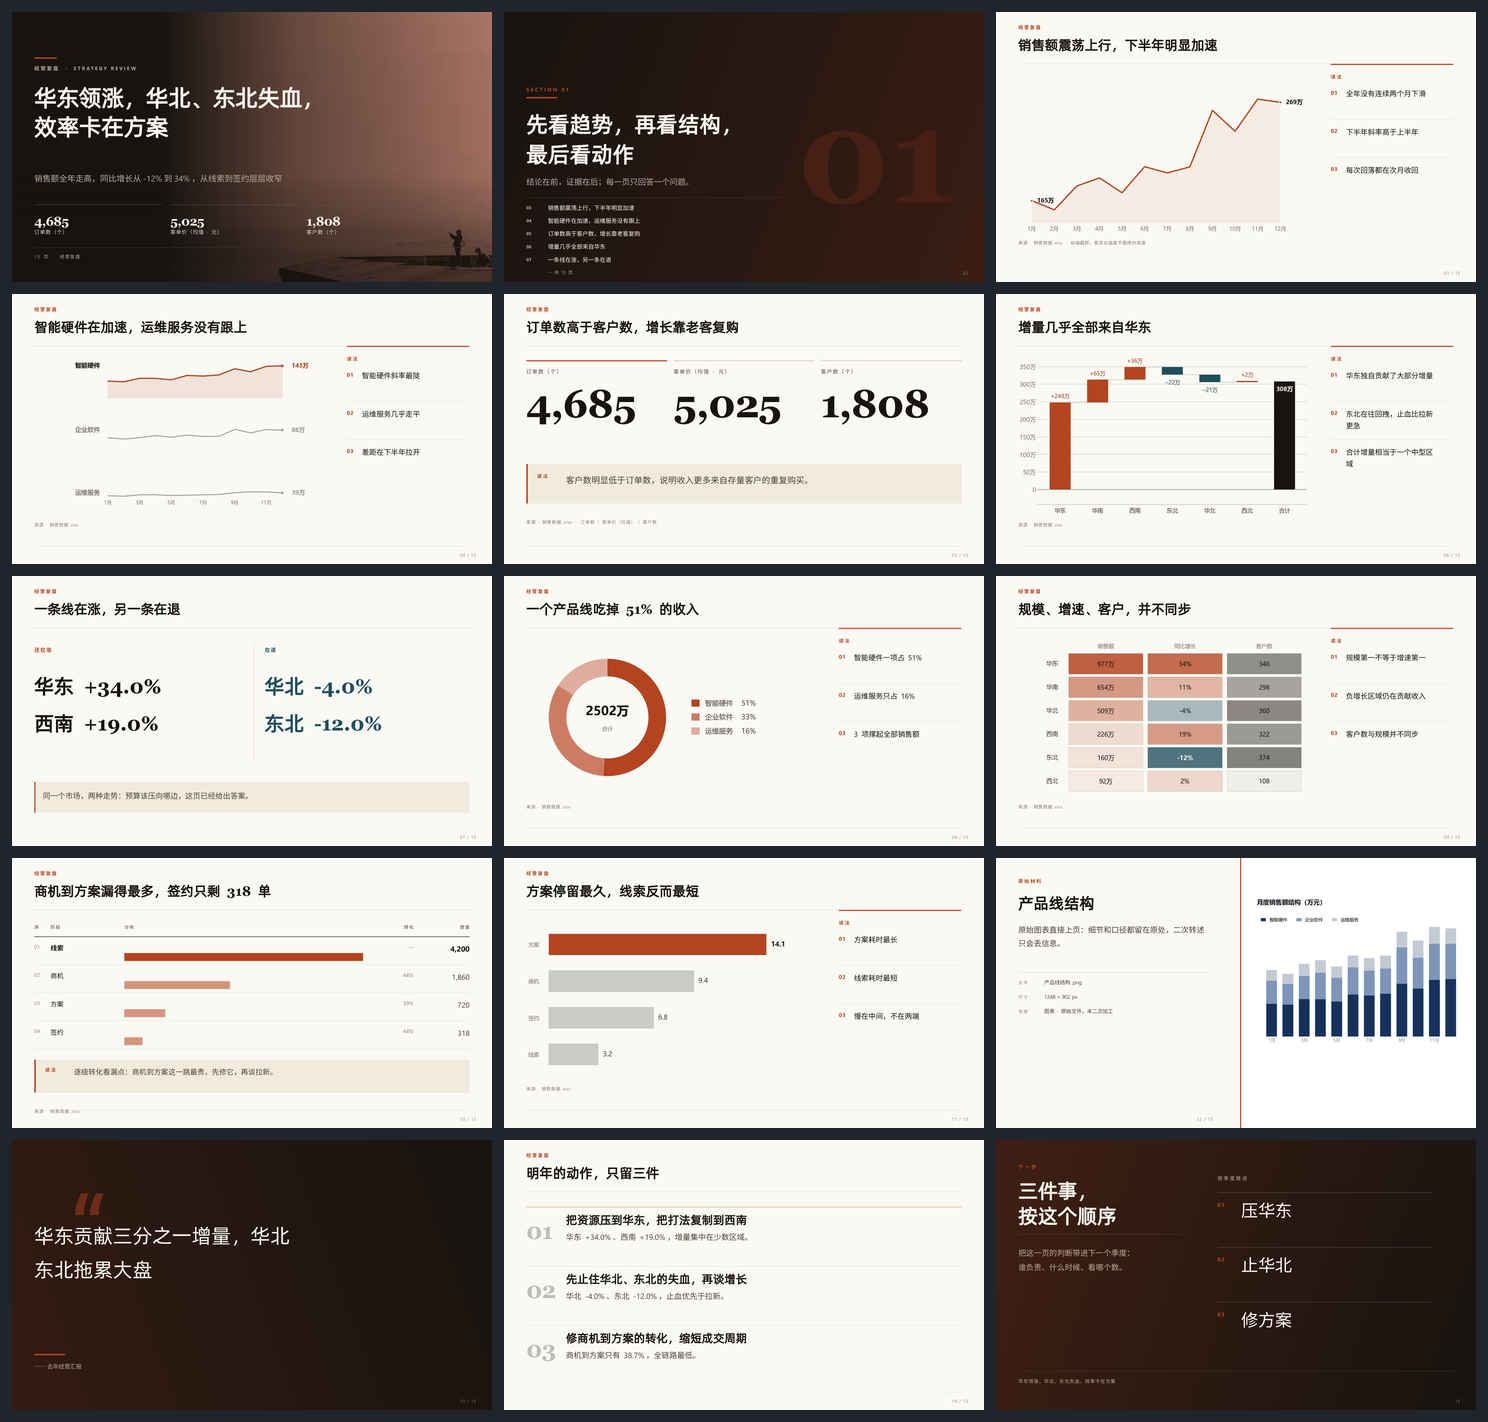
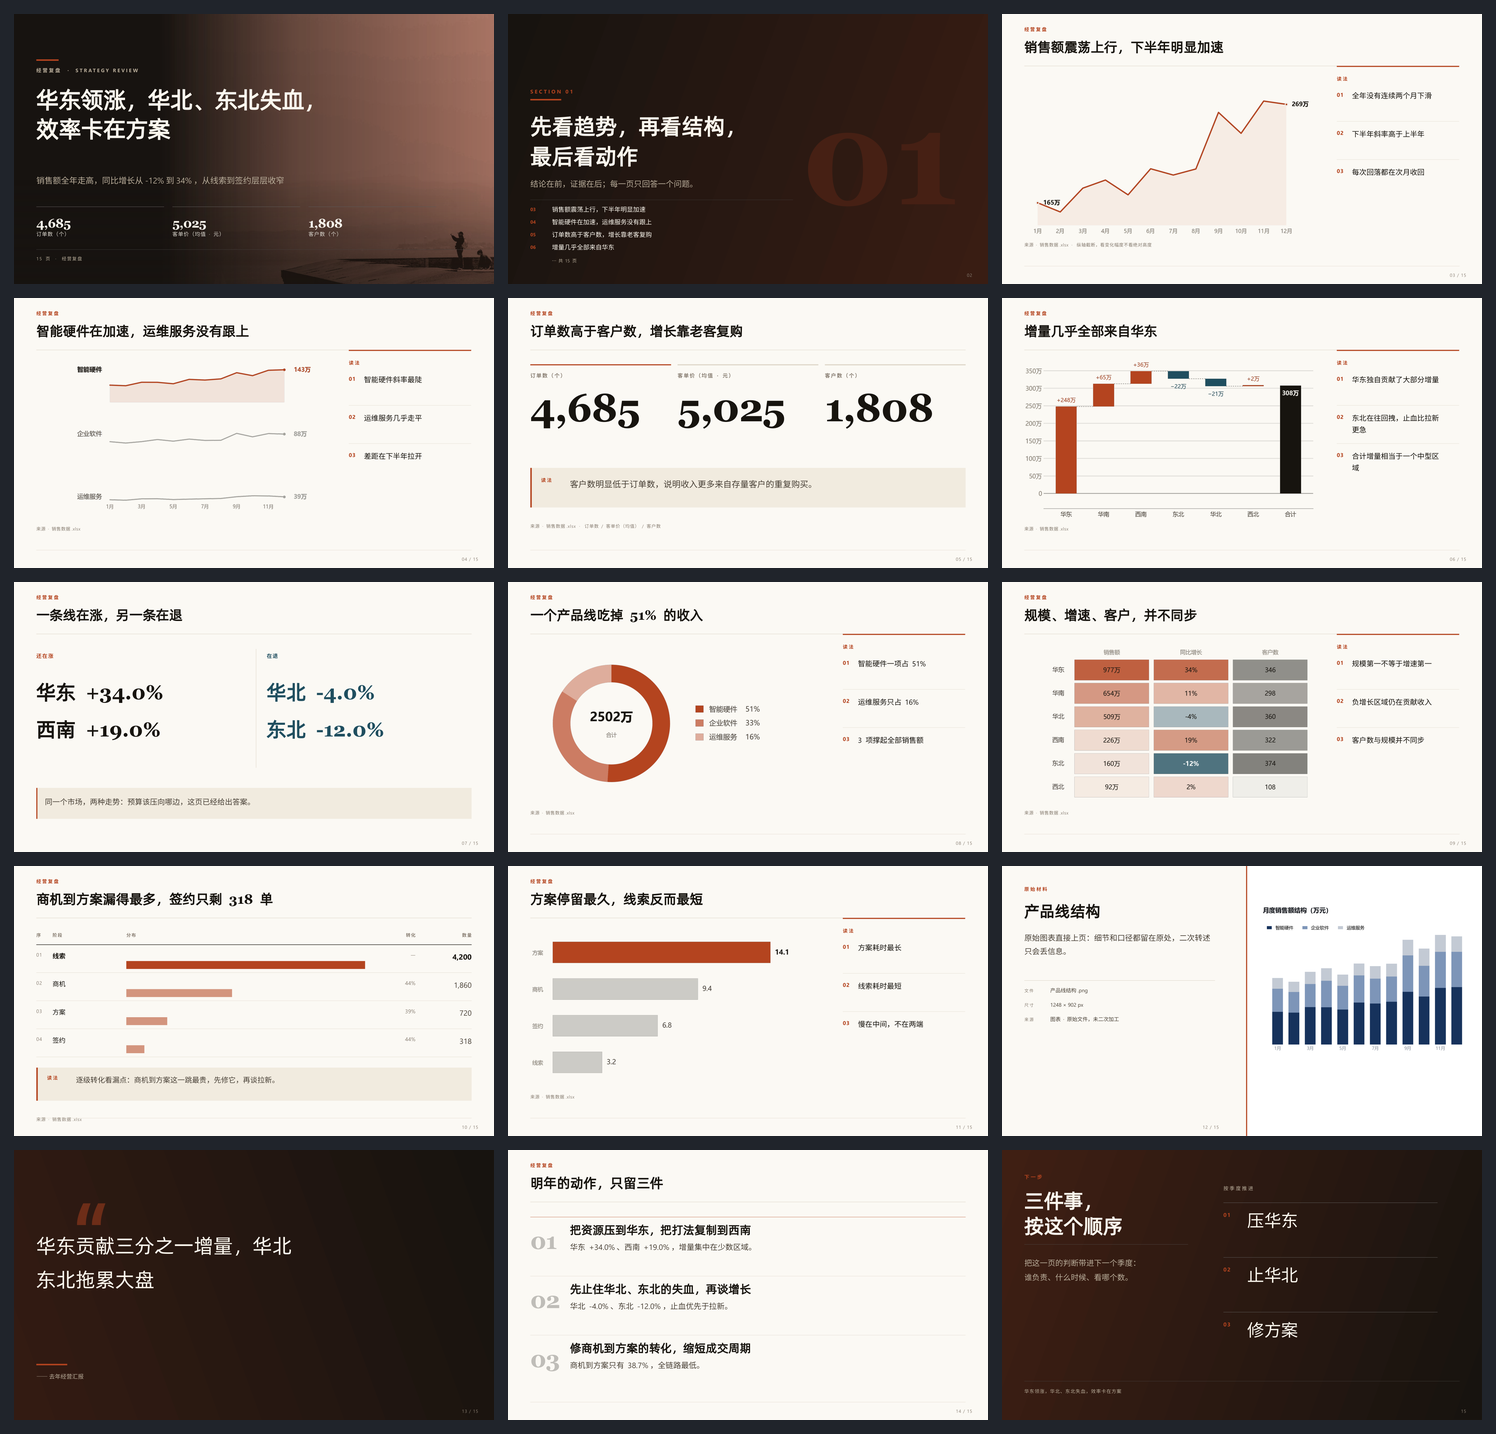
docs: the model-led six pages, and a chapter page you can scan

diff --git a/deck/render2.py b/deck/render2.py
@@ -382,28 +382,28 @@ def section(prs, plan: Plan, s: Slide, facts: dict[str, Fact], theme: Theme,
         # Preview the chapter, not the whole deck: stop at the next section.
         upcoming = []
         for i, x in enumerate(plan.slides[idx:], start=idx + 1):
-            if x.layout in ("section", "closing") or len(upcoming) >= 5:
+            if x.layout in ("section", "closing") or len(upcoming) >= 4:
                 break
             upcoming.append((i, x))
         if upcoming:
             add_rect(slide, MARGIN_X, Inches(5.16), Inches(7.30), Emu(6350),
                      _mix(theme.dark, "#FFFFFF", 0.18))
             for k, (page, item) in enumerate(upcoming):
-                yy = 5.32 + k * 0.36
+                yy = 5.30 + k * 0.35
                 add_text(slide, MARGIN_X, Inches(yy), Inches(0.55), Inches(0.28),
-                         f"{page:02d}", theme, size=Pt(9), bold=True,
-                         color=_rgb(theme.dark_muted))
+                         f"{page:02d}", theme, size=Pt(9.5), bold=True,
+                         color=_rgb(theme.accent))
                 label = subst(item.title, facts)
                 label = label if len(label) <= 26 else label[:25] + "…"
                 add_text(slide, MARGIN_X + Inches(0.60), Inches(yy - 0.02),
-                         Inches(5.95), Inches(0.32), label, theme, size=Pt(11.5),
+                         Inches(5.95), Inches(0.32), label, theme, size=Pt(12.5),
                          color=_rgb(theme.dark_ink), line_spacing=1.2)
             # An agenda that quietly stops at five items implies the chapter
             # is five pages long. Say how many pages the reader is in for.
             rest = len(plan.slides) - idx - len(upcoming)
             tail = f"…  共 {len(plan.slides)} 页" if rest > 0 else f"共 {len(plan.slides)} 页"
             add_text(slide, MARGIN_X + Inches(0.60),
-                     Inches(5.32 + len(upcoming) * 0.36), Inches(5.9), Inches(0.26),
+                     Inches(5.34 + len(upcoming) * 0.35), Inches(5.9), Inches(0.26),
                      tail, theme, size=Pt(9), color=_rgb(theme.dark_muted))
             page_number(slide, idx, theme)
             return
